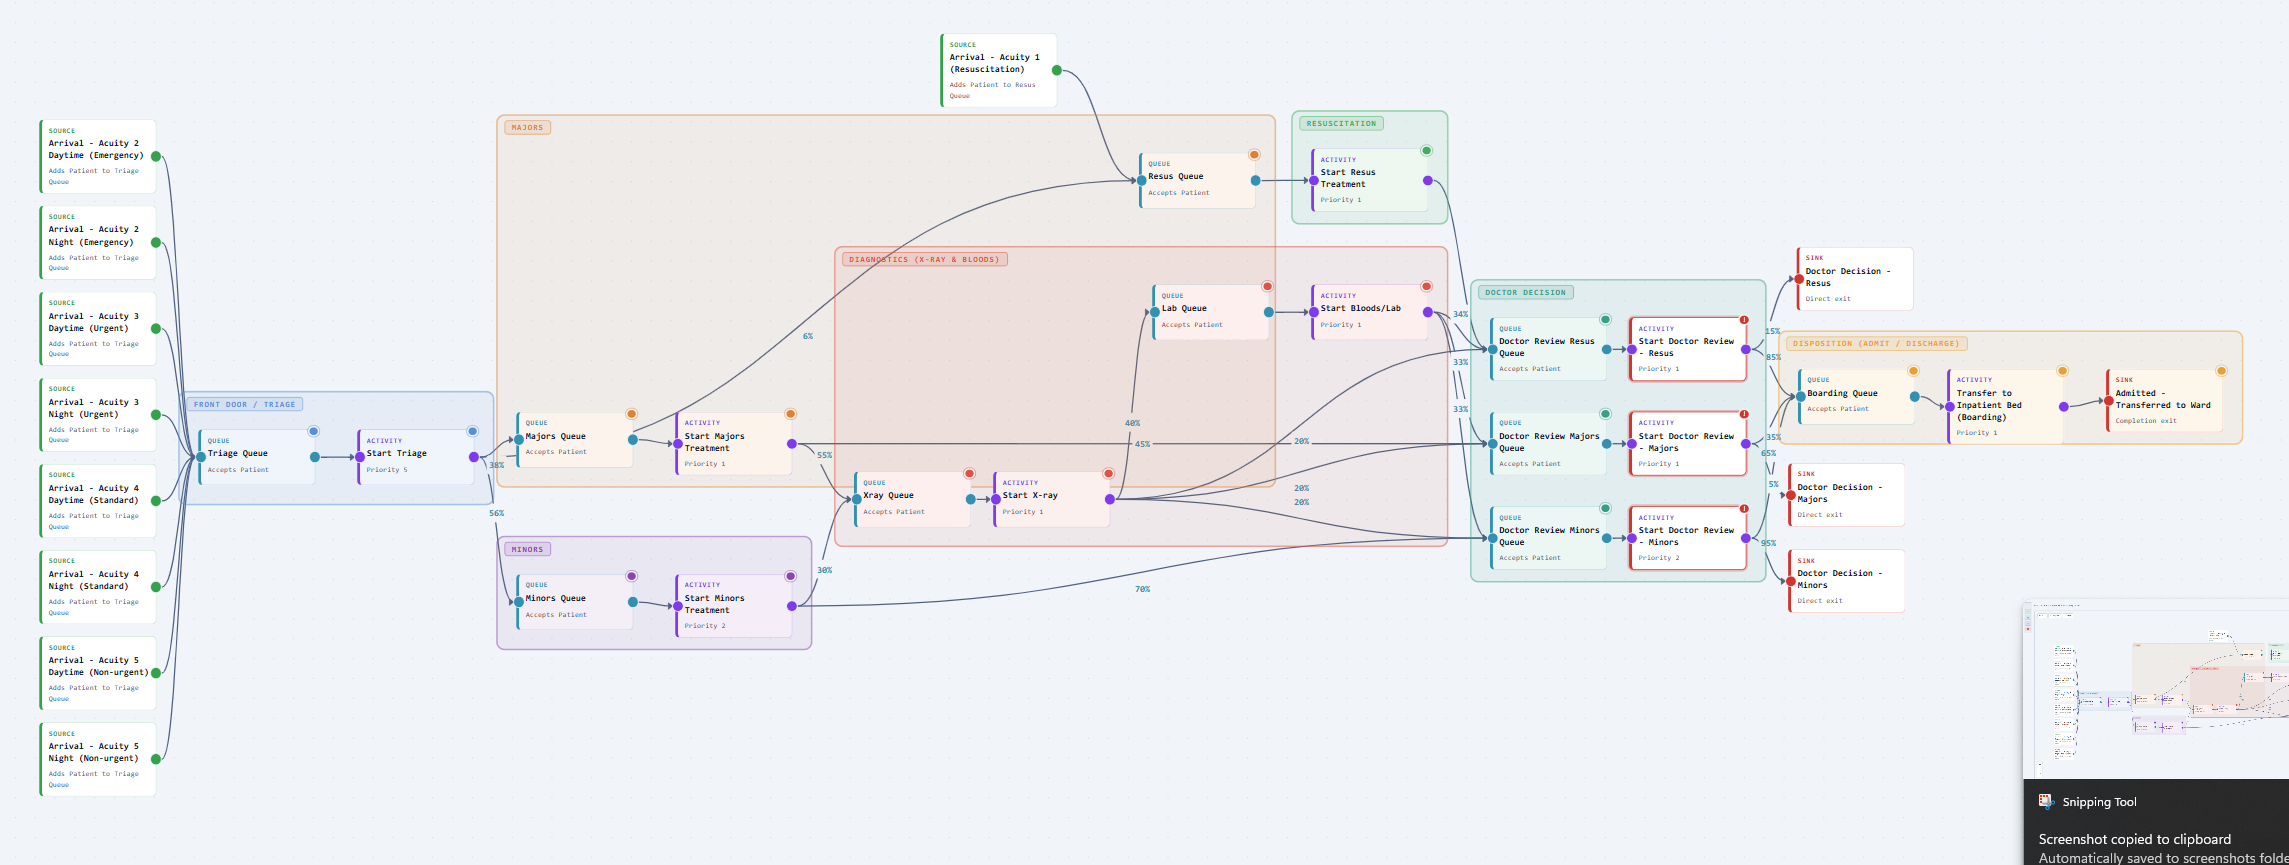
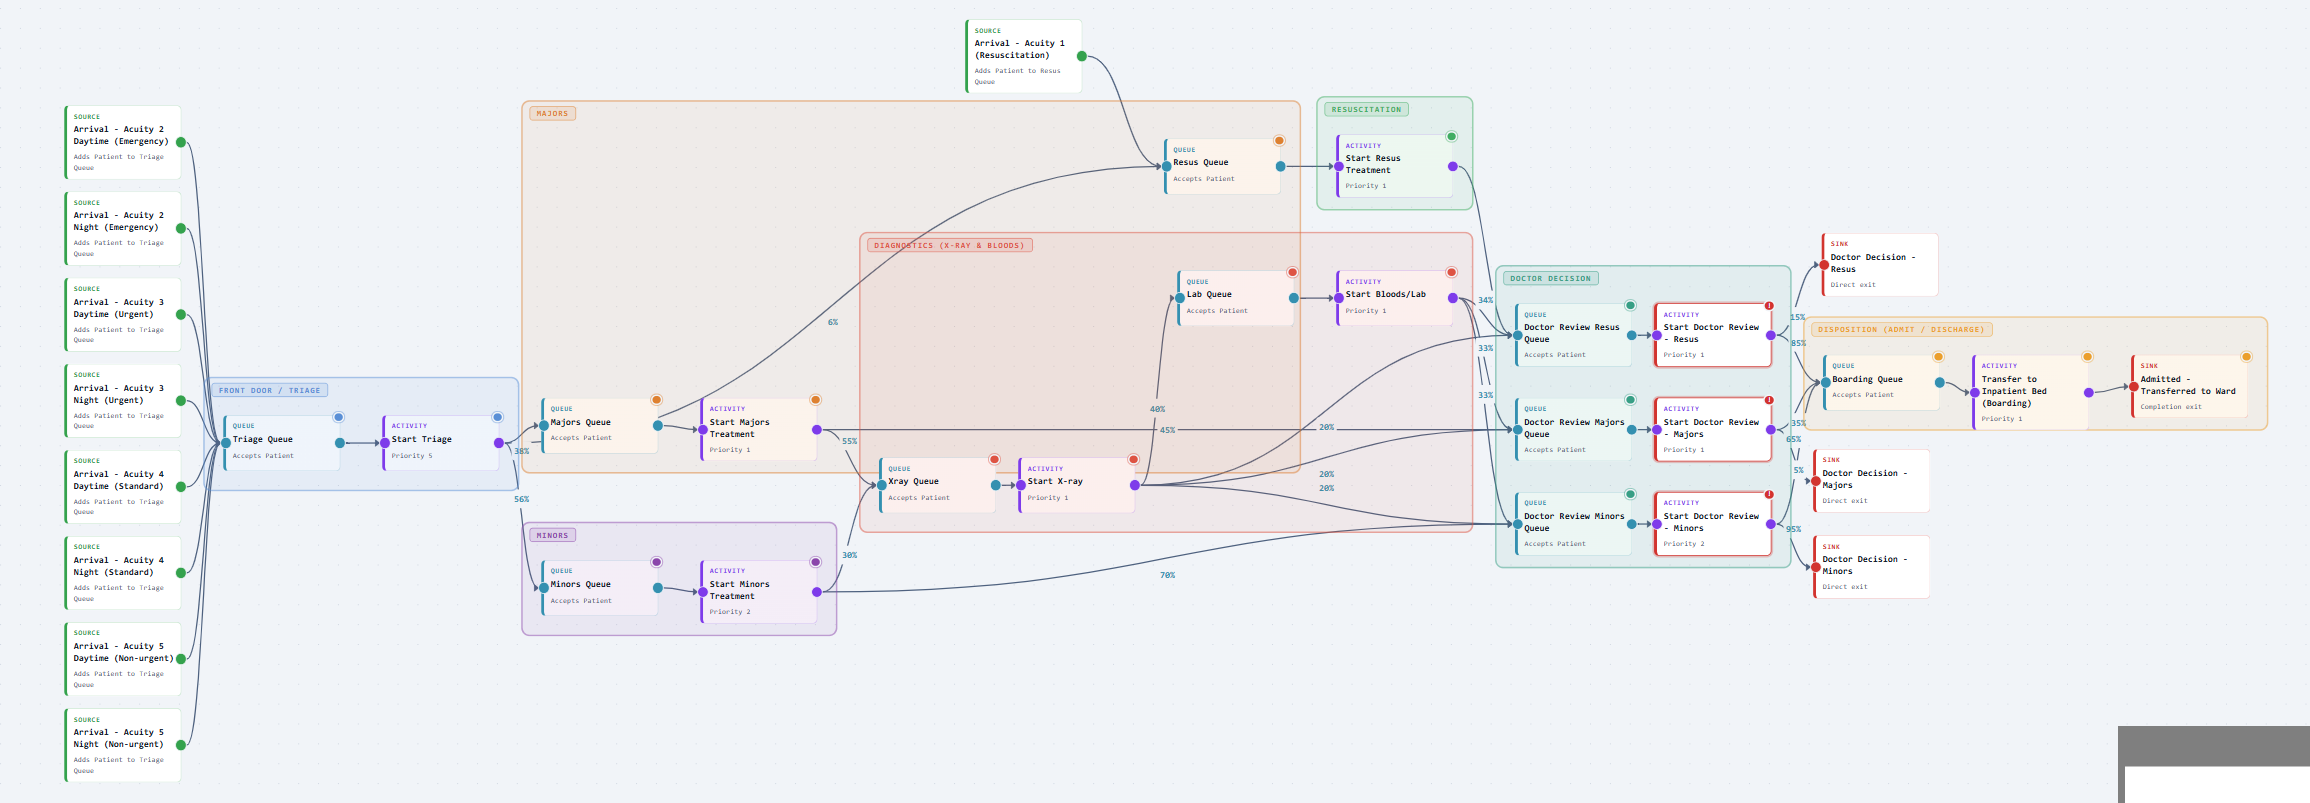
Replace complex model image and update aspect ratio

diff --git a/index.html b/index.html
@@ -441,7 +441,7 @@ section { padding: 6rem 3rem; position: relative; overflow: hidden; }
   overflow: hidden;
   border: 1px solid var(--surface-border);
   background: var(--bg-3);
-  aspect-ratio: 2289 / 865;
+  aspect-ratio: 2310 / 803;
 }
 .complex-frame img {
   display: block;
@@ -547,7 +547,7 @@ footer {
     padding-right:0.08em;
   }
   .scenario-proof{grid-template-columns:1fr;}
-  .complex-frame{aspect-ratio:2289 / 865;}
+  .complex-frame{aspect-ratio:2310 / 803;}
 }
 </style>
 </head>